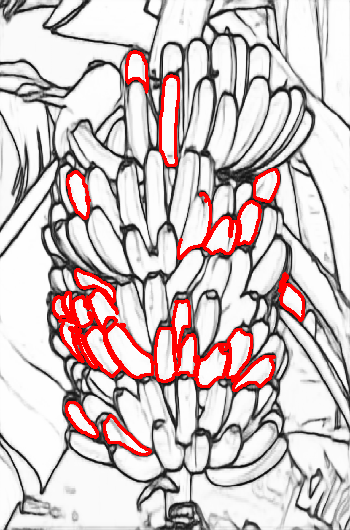
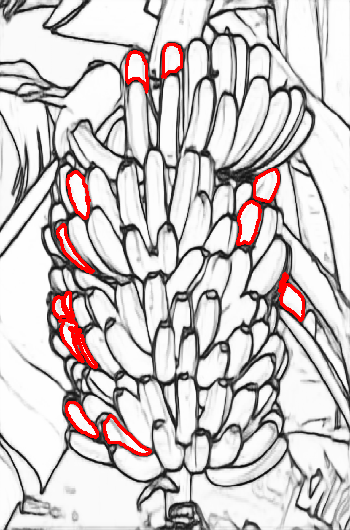
[演算法] 將「周長條件篩選」移至boxplot之前

diff --git a/find_contours.py b/find_contours.py
@@ -36,7 +36,8 @@ def contours_metadata(contours):
 
     ## 計算資料分布改框的條件，因為小於200的資料太多，故刪除
     for c in contours:
-        if cv2.contourArea(c)>200.0:
+        if cv2.contourArea(c)>200.0 and \
+           cv2.arcLength(c,False)<600 :
             cnts_index.append(c)
             cnts_perimeter.append(cv2.arcLength(c,False))
             cnts_area.append(cv2.contourArea(c))
@@ -101,8 +102,7 @@ def BananaContours():
         # /** 針對average、standard deviation去篩選contours */
         for c in contours:
             if cv2.contourArea(c)>(q1)and \
-            cv2.contourArea(c)<(area_avg+0.25*area_std)and \
-            cv2.arcLength(c,False)<600:
+            cv2.contourArea(c)<(area_avg+0.25*area_std):
                 cnt_with_area.append(c)
                 total_area += cv2.contourArea(c)
 
